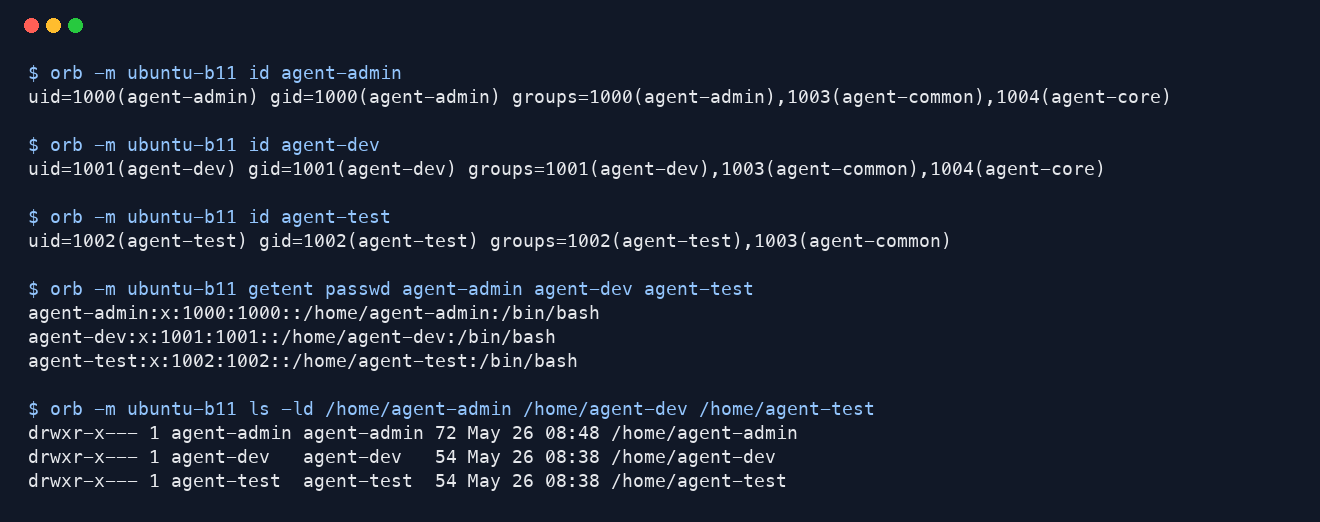
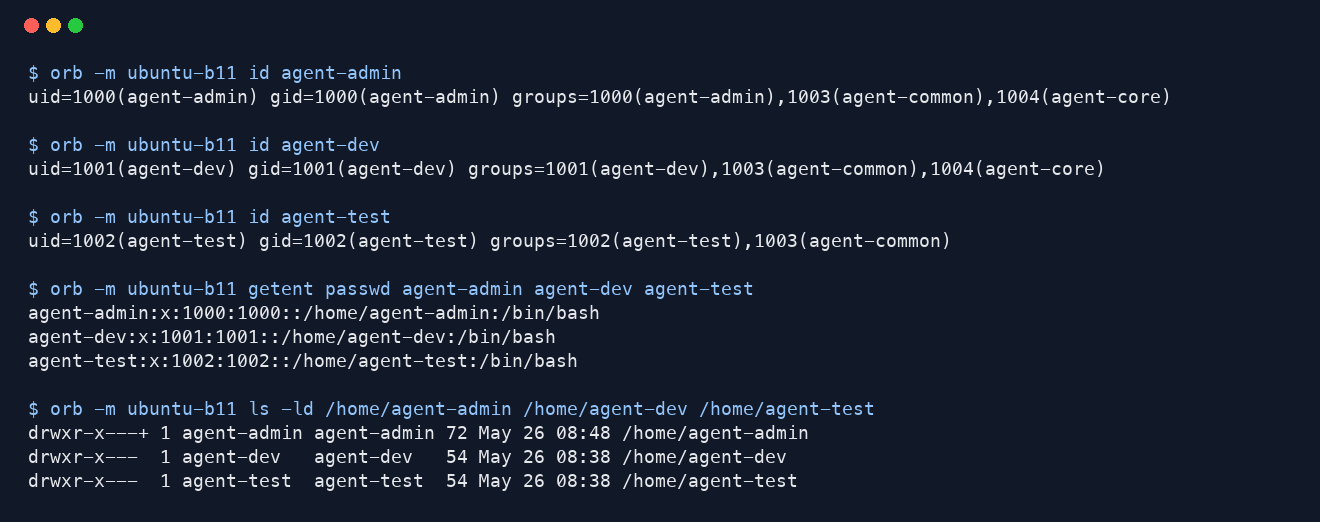
Document agent access permissions

Changed region(s): [[0.1242, 0.7969, 0.6212, 0.9502]]

diff --git a/tools/capture_terminal_evidence.py b/tools/capture_terminal_evidence.py
@@ -169,6 +169,185 @@ GROUPS = [
             ),
         ],
     ),
+    (
+        "07_access_permission_metadata_check",
+        [
+            (
+                "orb -m ubuntu-b11 bash -lc 'id agent-admin && id agent-dev && id agent-test'",
+                [
+                    "orb",
+                    "-m",
+                    "ubuntu-b11",
+                    "bash",
+                    "-lc",
+                    "id agent-admin && id agent-dev && id agent-test",
+                ],
+            ),
+            (
+                "orb -m ubuntu-b11 sudo ls -ld /home/agent-admin /home/agent-admin/agent-app /home/agent-admin/agent-app/upload_files /home/agent-admin/agent-app/api_keys /var/log/agent-app",
+                [
+                    "orb",
+                    "-m",
+                    "ubuntu-b11",
+                    "sudo",
+                    "ls",
+                    "-ld",
+                    "/home/agent-admin",
+                    "/home/agent-admin/agent-app",
+                    "/home/agent-admin/agent-app/upload_files",
+                    "/home/agent-admin/agent-app/api_keys",
+                    "/var/log/agent-app",
+                ],
+            ),
+            (
+                "orb -m ubuntu-b11 sudo getfacl -p /home/agent-admin /home/agent-admin/agent-app /home/agent-admin/agent-app/upload_files /home/agent-admin/agent-app/api_keys /var/log/agent-app",
+                [
+                    "orb",
+                    "-m",
+                    "ubuntu-b11",
+                    "sudo",
+                    "getfacl",
+                    "-p",
+                    "/home/agent-admin",
+                    "/home/agent-admin/agent-app",
+                    "/home/agent-admin/agent-app/upload_files",
+                    "/home/agent-admin/agent-app/api_keys",
+                    "/var/log/agent-app",
+                ],
+            ),
+        ],
+    ),
+    (
+        "08_access_permission_write_tests",
+        [
+            (
+                "orb -m ubuntu-b11 sudo -u agent-admin bash -lc 'touch /home/agent-admin/agent-app/upload_files/admin_upload_test && rm /home/agent-admin/agent-app/upload_files/admin_upload_test && echo \"agent-admin upload_files write: OK\"'",
+                [
+                    "orb",
+                    "-m",
+                    "ubuntu-b11",
+                    "sudo",
+                    "-u",
+                    "agent-admin",
+                    "bash",
+                    "-lc",
+                    'touch /home/agent-admin/agent-app/upload_files/admin_upload_test && rm /home/agent-admin/agent-app/upload_files/admin_upload_test && echo "agent-admin upload_files write: OK"',
+                ],
+            ),
+            (
+                "orb -m ubuntu-b11 sudo -u agent-dev bash -lc 'touch /home/agent-admin/agent-app/upload_files/dev_upload_test && rm /home/agent-admin/agent-app/upload_files/dev_upload_test && echo \"agent-dev upload_files write: OK\"'",
+                [
+                    "orb",
+                    "-m",
+                    "ubuntu-b11",
+                    "sudo",
+                    "-u",
+                    "agent-dev",
+                    "bash",
+                    "-lc",
+                    'touch /home/agent-admin/agent-app/upload_files/dev_upload_test && rm /home/agent-admin/agent-app/upload_files/dev_upload_test && echo "agent-dev upload_files write: OK"',
+                ],
+            ),
+            (
+                "orb -m ubuntu-b11 sudo -u agent-test bash -lc 'touch /home/agent-admin/agent-app/upload_files/test_upload_test && rm /home/agent-admin/agent-app/upload_files/test_upload_test && echo \"agent-test upload_files write: OK\"'",
+                [
+                    "orb",
+                    "-m",
+                    "ubuntu-b11",
+                    "sudo",
+                    "-u",
+                    "agent-test",
+                    "bash",
+                    "-lc",
+                    'touch /home/agent-admin/agent-app/upload_files/test_upload_test && rm /home/agent-admin/agent-app/upload_files/test_upload_test && echo "agent-test upload_files write: OK"',
+                ],
+            ),
+            (
+                "orb -m ubuntu-b11 sudo -u agent-admin bash -lc 'touch /home/agent-admin/agent-app/api_keys/admin_key_test && rm /home/agent-admin/agent-app/api_keys/admin_key_test && echo \"agent-admin api_keys write: OK\"'",
+                [
+                    "orb",
+                    "-m",
+                    "ubuntu-b11",
+                    "sudo",
+                    "-u",
+                    "agent-admin",
+                    "bash",
+                    "-lc",
+                    'touch /home/agent-admin/agent-app/api_keys/admin_key_test && rm /home/agent-admin/agent-app/api_keys/admin_key_test && echo "agent-admin api_keys write: OK"',
+                ],
+            ),
+            (
+                "orb -m ubuntu-b11 sudo -u agent-dev bash -lc 'touch /home/agent-admin/agent-app/api_keys/dev_key_test && rm /home/agent-admin/agent-app/api_keys/dev_key_test && echo \"agent-dev api_keys write: OK\"'",
+                [
+                    "orb",
+                    "-m",
+                    "ubuntu-b11",
+                    "sudo",
+                    "-u",
+                    "agent-dev",
+                    "bash",
+                    "-lc",
+                    'touch /home/agent-admin/agent-app/api_keys/dev_key_test && rm /home/agent-admin/agent-app/api_keys/dev_key_test && echo "agent-dev api_keys write: OK"',
+                ],
+            ),
+            (
+                "orb -m ubuntu-b11 sudo -u agent-test bash -lc 'if touch /home/agent-admin/agent-app/api_keys/test_key_denied 2>/dev/null; then rm -f /home/agent-admin/agent-app/api_keys/test_key_denied; echo \"agent-test api_keys write: UNEXPECTED_OK\"; exit 1; else echo \"agent-test api_keys write: DENIED (expected)\"; fi'",
+                [
+                    "orb",
+                    "-m",
+                    "ubuntu-b11",
+                    "sudo",
+                    "-u",
+                    "agent-test",
+                    "bash",
+                    "-lc",
+                    'if touch /home/agent-admin/agent-app/api_keys/test_key_denied 2>/dev/null; then rm -f /home/agent-admin/agent-app/api_keys/test_key_denied; echo "agent-test api_keys write: UNEXPECTED_OK"; exit 1; else echo "agent-test api_keys write: DENIED (expected)"; fi',
+                ],
+            ),
+            (
+                "orb -m ubuntu-b11 sudo -u agent-admin bash -lc 'touch /var/log/agent-app/admin_log_test && rm /var/log/agent-app/admin_log_test && echo \"agent-admin log write: OK\"'",
+                [
+                    "orb",
+                    "-m",
+                    "ubuntu-b11",
+                    "sudo",
+                    "-u",
+                    "agent-admin",
+                    "bash",
+                    "-lc",
+                    'touch /var/log/agent-app/admin_log_test && rm /var/log/agent-app/admin_log_test && echo "agent-admin log write: OK"',
+                ],
+            ),
+            (
+                "orb -m ubuntu-b11 sudo -u agent-dev bash -lc 'touch /var/log/agent-app/dev_log_test && rm /var/log/agent-app/dev_log_test && echo \"agent-dev log write: OK\"'",
+                [
+                    "orb",
+                    "-m",
+                    "ubuntu-b11",
+                    "sudo",
+                    "-u",
+                    "agent-dev",
+                    "bash",
+                    "-lc",
+                    'touch /var/log/agent-app/dev_log_test && rm /var/log/agent-app/dev_log_test && echo "agent-dev log write: OK"',
+                ],
+            ),
+            (
+                "orb -m ubuntu-b11 sudo -u agent-test bash -lc 'if touch /var/log/agent-app/test_log_denied 2>/dev/null; then rm -f /var/log/agent-app/test_log_denied; echo \"agent-test log write: UNEXPECTED_OK\"; exit 1; else echo \"agent-test log write: DENIED (expected)\"; fi'",
+                [
+                    "orb",
+                    "-m",
+                    "ubuntu-b11",
+                    "sudo",
+                    "-u",
+                    "agent-test",
+                    "bash",
+                    "-lc",
+                    'if touch /var/log/agent-app/test_log_denied 2>/dev/null; then rm -f /var/log/agent-app/test_log_denied; echo "agent-test log write: UNEXPECTED_OK"; exit 1; else echo "agent-test log write: DENIED (expected)"; fi',
+                ],
+            ),
+        ],
+    ),
 ]
 
 

diff --git a/README.md b/README.md
@@ -224,3 +224,57 @@ UFW 활성화 상태 및 허용 포트 확인:
 원문 증거 로그:
 
 - `evidence/06_directory_structure_check.txt`
+
+#### 4.2.4 접근 권한
+
+##### 4.2.4.1 수행 내역
+
+1. `command -v getfacl`과 `command -v setfacl`로 ACL 확인 도구 설치 여부를 확인하였다.
+2. ACL 도구가 설치되어 있지 않아 `sudo apt-get install -y acl`로 `acl` 패키지를 설치하였다.
+3. `id agent-admin`, `id agent-dev`, `id agent-test`로 각 계정의 그룹 소속을 다시 확인하였다.
+4. `/home/agent-admin`은 다른 사용자에게 기본 접근이 막혀 있으므로 `sudo setfacl -m g:agent-common:x /home/agent-admin`으로 필요한 경로 탐색 권한만 부여하였다.
+5. `sudo chown agent-admin:agent-common /home/agent-admin/agent-app`으로 `AGENT_HOME`의 그룹을 공통 그룹 기준으로 맞추었다.
+6. `sudo chmod 2750 /home/agent-admin/agent-app`으로 그룹이 읽고 들어갈 수 있게 하고, setgid 비트를 적용하였다.
+7. `sudo chown agent-admin:agent-common /home/agent-admin/agent-app/upload_files`로 `upload_files`의 그룹을 `agent-common`으로 지정하였다.
+8. `sudo chmod 2770 /home/agent-admin/agent-app/upload_files`로 `agent-common` 그룹 구성원이 읽고 쓸 수 있게 설정하였다.
+9. `sudo chown agent-admin:agent-core /home/agent-admin/agent-app/api_keys`로 `api_keys`의 그룹을 `agent-core`로 지정하였다.
+10. `sudo chmod 2770 /home/agent-admin/agent-app/api_keys`로 `agent-core` 그룹만 읽고 쓸 수 있게 설정하였다.
+11. `sudo chown root:agent-core /var/log/agent-app`로 로그 디렉터리 그룹을 `agent-core`로 지정하였다.
+12. `sudo chmod 2770 /var/log/agent-app`로 `agent-core` 그룹만 로그 디렉터리에 읽기/쓰기 가능하도록 설정하였다.
+13. `setfacl -d`로 `upload_files`, `api_keys`, `/var/log/agent-app`에 기본 ACL을 설정하여 새 파일도 그룹 권한을 유지하도록 하였다.
+14. `ls -ld`로 각 디렉터리의 소유자, 그룹, 권한을 확인하였다.
+15. `getfacl`로 ACL 및 기본 ACL 적용 상태를 확인하였다.
+16. `agent-admin`, `agent-dev`, `agent-test` 계정으로 `upload_files` 쓰기 테스트를 하여 세 계정 모두 쓰기 가능함을 확인하였다.
+17. `agent-admin`, `agent-dev` 계정으로 `api_keys` 쓰기 테스트를 하여 `agent-core` 구성원만 쓰기 가능함을 확인하였다.
+18. `agent-test` 계정으로 `api_keys` 쓰기 테스트를 하여 접근이 거부되는 것을 확인하였다.
+19. `agent-admin`, `agent-dev` 계정으로 `/var/log/agent-app` 쓰기 테스트를 하여 `agent-core` 구성원만 쓰기 가능함을 확인하였다.
+20. `agent-test` 계정으로 `/var/log/agent-app` 쓰기 테스트를 하여 접근이 거부되는 것을 확인하였다.
+
+##### 4.2.4.2 주요 개념
+
+- R/W 권한이란? 읽기(Read)와 쓰기(Write) 권한을 의미하며, 디렉터리에서는 파일 목록 확인과 파일 생성/수정에 영향을 준다.
+- ACL이란? 기본 소유자/그룹/기타 권한보다 세밀하게 접근 권한을 지정할 수 있는 리눅스 권한 기능이다.
+- setgid 디렉터리란? 디렉터리 안에 새 파일을 만들 때 부모 디렉터리의 그룹을 이어받게 하는 설정이다.
+
+##### 4.2.4.3 확인 결과
+
+- `upload_files`: 그룹 `agent-common`, 권한 `rwx`로 설정되어 `agent-admin`, `agent-dev`, `agent-test` 모두 R/W 가능
+- `api_keys`: 그룹 `agent-core`, 권한 `rwx`로 설정되어 `agent-admin`, `agent-dev`만 R/W 가능
+- `/var/log/agent-app`: 그룹 `agent-core`, 권한 `rwx`로 설정되어 `agent-admin`, `agent-dev`만 R/W 가능
+- `agent-test`는 `agent-core`에 속하지 않기 때문에 `api_keys`와 `/var/log/agent-app` 쓰기가 거부됨
+- `other` 권한은 `---`로 두어 그룹 외 사용자의 접근을 차단함
+
+##### 4.2.4.4 증거 자료
+
+계정 그룹 소속, 디렉터리 소유/권한, ACL 확인:
+
+![접근 권한 메타데이터 확인](screenshots/07_access_permission_metadata_check.png)
+
+사용자별 쓰기 가능 여부 확인:
+
+![접근 권한 쓰기 테스트](screenshots/08_access_permission_write_tests.png)
+
+원문 증거 로그:
+
+- `evidence/07_access_permission_metadata_check.txt`
+- `evidence/08_access_permission_write_tests.txt`